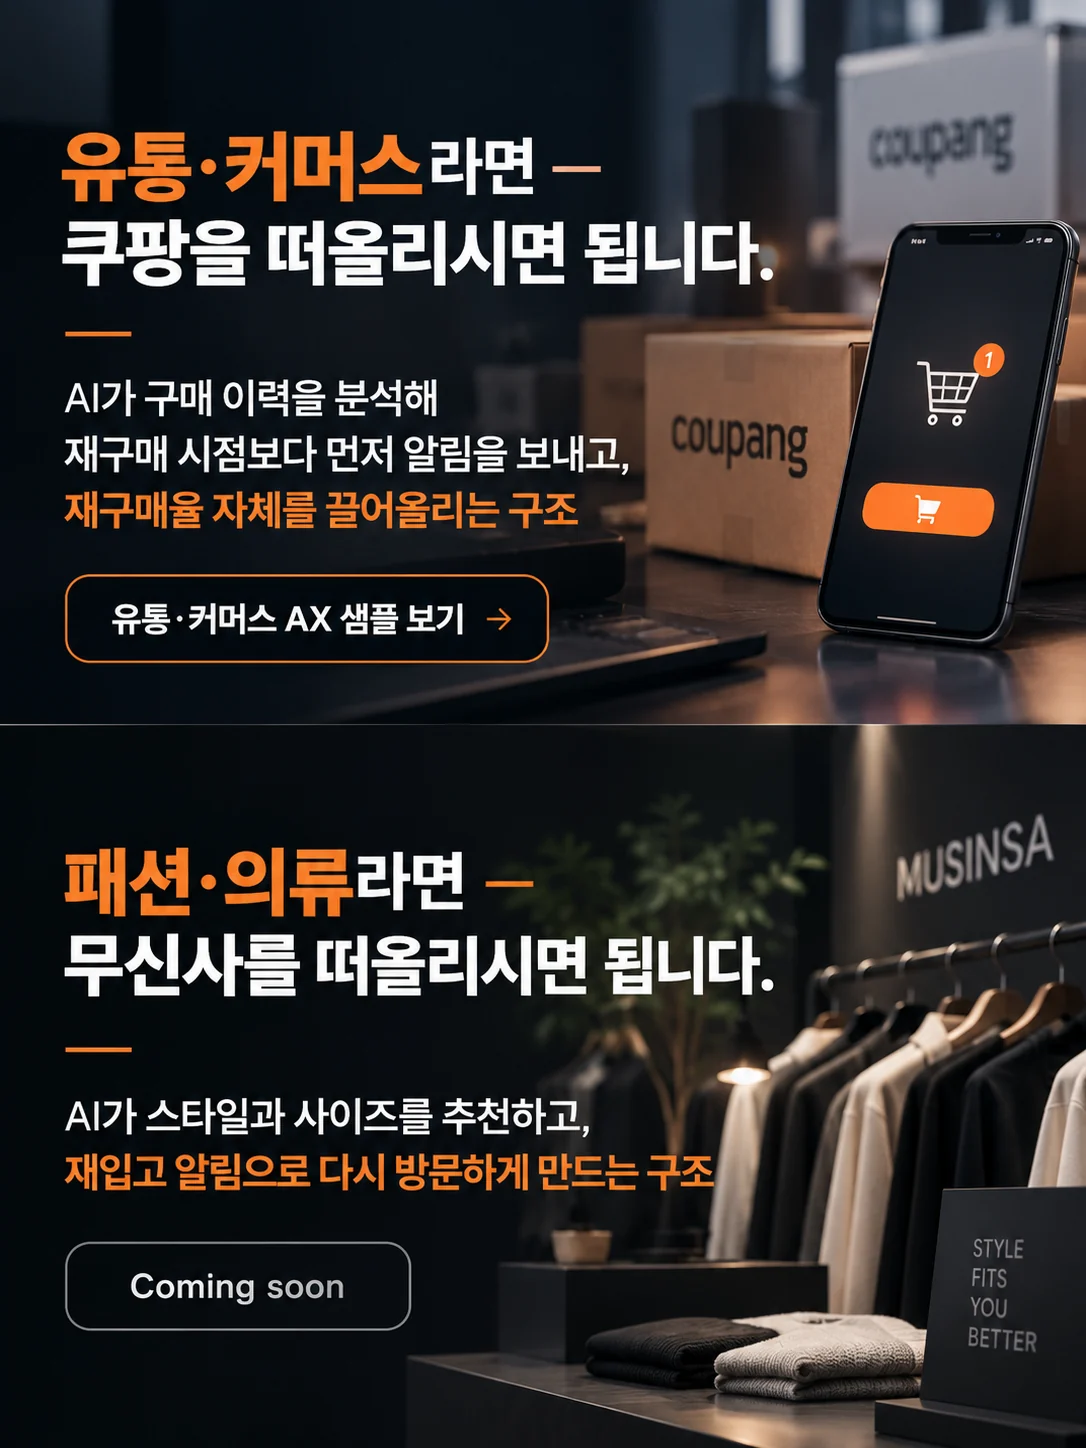
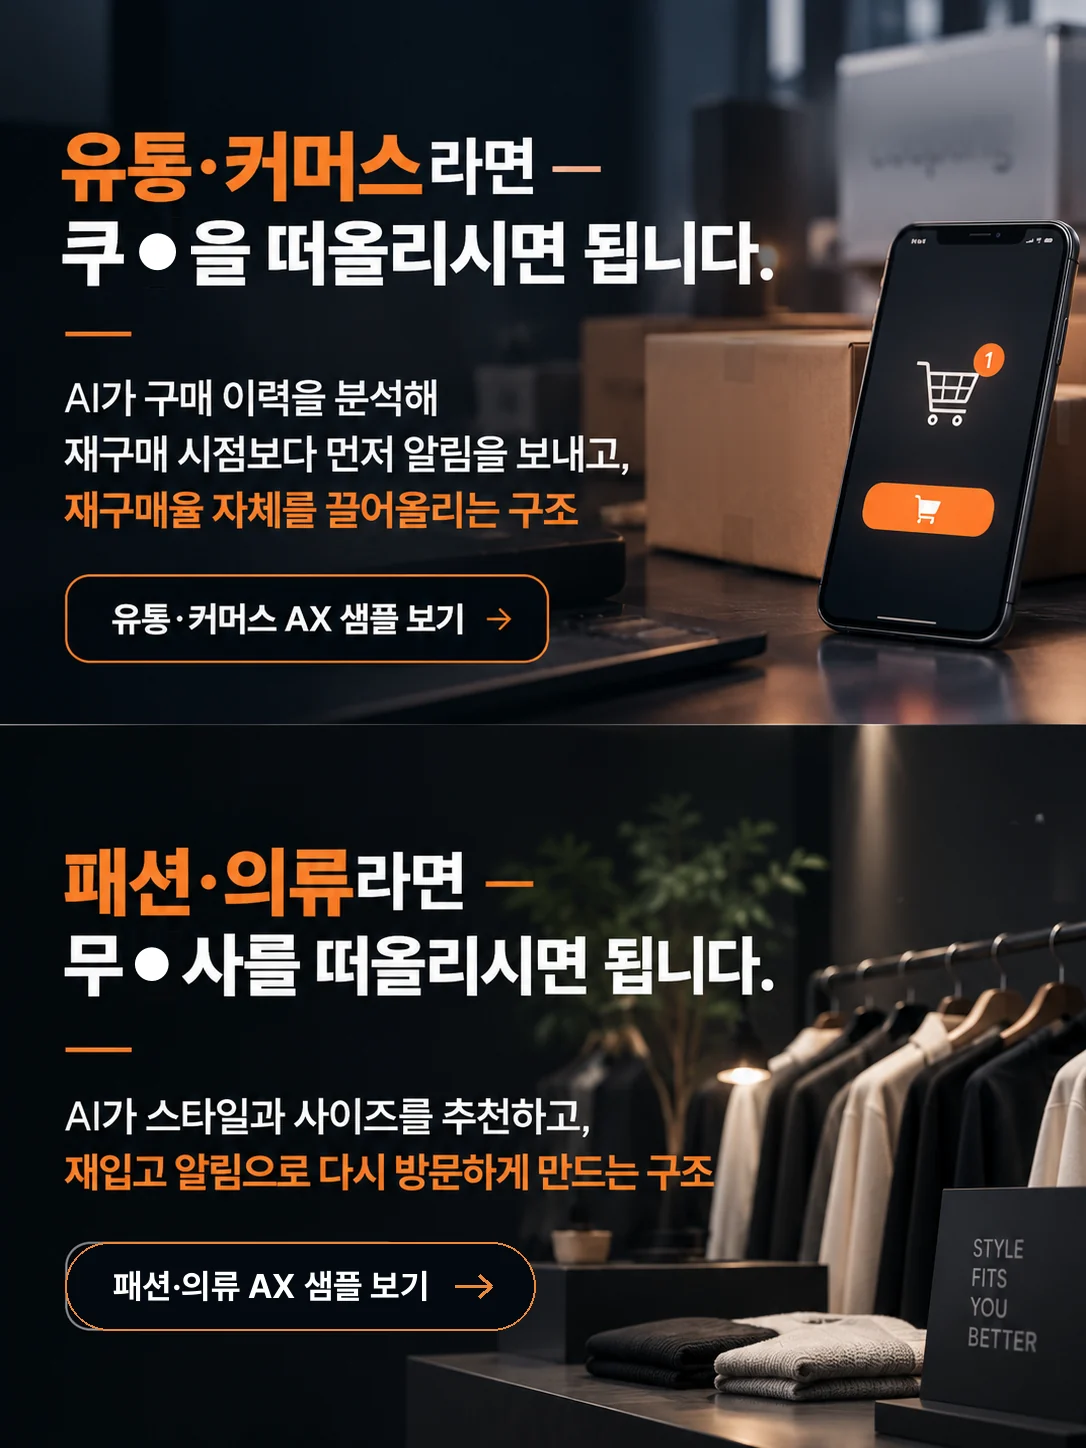
3.4 이미지 — 실제 브랜드 표기 정리 + 패션·의류 샘플 버튼 연결
- 본문의 브랜드명 한 글자를 ● 로 가림: '쿠팡' → '쿠●', '무신사' → '무●사'
  (사이트의 기업명 가림 표기와 같은 방식)
- 사진 속 상표 제거 — 택배상자 인쇄와 매장 간판은 배경색으로 지우고, 배경 로고는 아웃포커스 처리
  실제 기업과 제휴·협력 관계로 오해될 소지를 없애기 위함
- alt 텍스트에서도 브랜드명을 빼고 '대형 이커머스'로 서술 (검색엔진에 브랜드명이 남지 않게)
- [Coming soon] 자리에 위쪽 버튼과 같은 스타일의 '패션·의류 AX 샘플 보기' 버튼을 그리고 링크 연결
- 업종 샘플 링크 교체 · 추가
  · 유통·커머스 → NEXMART 종합유통 플랫폼 (sample22)
  · 패션·의류 → MORFIT 멀티브랜드 패션 플랫폼 (sample21)

Claude-Session: https://claude.ai/code/session_0127QvWRVvHFDHQbBmPVBCzc

diff --git a/src/data/axHomeStoryV3.ts b/src/data/axHomeStoryV3.ts
@@ -34,7 +34,7 @@ export const AX_STORY_V3_IMAGES: Record<string, AxStoryV3Image> = {
   '3-1': { alt: 'Section 03 사업계획서의 시대가 달라졌습니다 — 누구나 AI로 빠르게 만들 수 있어 사업계획서만으로는 차별화되기 어렵고, 차이는 문서 밖에서 생깁니다', bg: 'linear-gradient(180deg, #F1F4F5 0%, #F6F7F9 25%, #D0CAB2 50%, #CDBDB5 75%, #D2CECC 100%)', w: 1086, h: 1448 },
   '3-2': { alt: '실제로 작동하는 웹앱, 실제로 기능하는 MVP, 데이터가 쌓이는 초기 모델이 꼭 있어야 하며 업종마다 성장 스토리를 웹앱에 녹여내는 것이 중요 — 예를 들면 이런 것들입니다', bg: 'linear-gradient(180deg, #435B77 0%, #474F61 25%, #4D3F36 50%, #121823 75%, #131721 100%)', w: 1086, h: 1448 },
   '3-3': { alt: '음식점이라면 매장 데이터로 밀키트·케이터링·기업 복지몰·멤버십 혜택으로 넓히는 그림 / 화장품이라면 AI 피부 분석 맞춤 추천과 구독·리필·뷰티클래스로 접점을 넓히는 그림 (AX 샘플 보기 버튼)', bg: 'linear-gradient(180deg, #B1AD9C 0%, #DFC9B8 25%, #FAF7F3 50%, #FCFAF7 75%, #FBFAF6 100%)', w: 1086, h: 1448, hotspots: [{ x: 6.63, y: 40.33, w: 44.94, h: 6.63, sample: 'gounsot', label: '음식점 AX 샘플 보기 — 고운솥 식당 AX 화면 (새 창)' }, { x: 6.63, y: 88.12, w: 44.94, h: 6.77, sample: 'veloa', label: '화장품 AX 샘플 보기 — VELOA BEAUTY AX 화면 (새 창)' }] },
-  '3-4': { alt: '유통·커머스라면 쿠팡처럼 AI가 구매 이력을 분석해 재구매 시점보다 먼저 알림을 보내는 구조 (AX 샘플 보기) / 패션·의류라면 무신사처럼 스타일·사이즈 추천과 재입고 알림 (Coming soon)', bg: 'linear-gradient(180deg, #656C76 0%, #4B3328 25%, #413833 50%, #554E4B 75%, #020609 100%)', w: 1086, h: 1448, hotspots: [{ x: 5.99, y: 39.92, w: 44.2, h: 6.22, sample: 'materix', label: '유통·커머스 AX 샘플 보기 — MATERIX AX 화면 (새 창)' }] },
+  '3-4': { alt: '유통·커머스라면 대형 이커머스처럼 AI가 구매 이력을 분석해 재구매 시점보다 먼저 알림을 보내고 재구매율 자체를 끌어올리는 구조 (유통·커머스 AX 샘플 보기) / 패션·의류라면 AI가 스타일과 사이즈를 추천하고 재입고 알림으로 다시 방문하게 만드는 구조 (패션·의류 AX 샘플 보기)', bg: 'linear-gradient(180deg, #656C76 0%, #4B3328 25%, #413833 50%, #554E4B 75%, #020609 100%)', w: 1086, h: 1448, hotspots: [{ x: 5.99, y: 39.64, w: 44.48, h: 6.08, href: 'https://sample22-theta.vercel.app/ax', label: '유통·커머스 AX 샘플 보기 — NEXMART 종합유통 플랫폼 AX 화면 (새 창)' }, { x: 5.99, y: 85.77, w: 43.28, h: 6.08, href: 'https://sample21-eight.vercel.app/ax', label: '패션·의류 AX 샘플 보기 — MORFIT 멀티브랜드 패션 플랫폼 AX 화면 (새 창)' }] },
   '3-5': { alt: '학원이라면 AI가 학생 데이터를 분석해 학부모 리포트를 자동 발송하고 재등록 시점을 놓치지 않게 하는 구조 / 제조업이라면 거래처가 재고·납기를 직접 확인하는 B2B 포탈과 AI 재주문 알림 (AX 샘플 보기 버튼)', bg: 'linear-gradient(180deg, #E7E6E6 0%, #F6F6F9 25%, #CAB0A0 50%, #F8F9FB 75%, #FBFBFC 100%)', w: 1086, h: 1448, hotspots: [{ x: 6.45, y: 39.36, w: 39.13, h: 6.91, sample: 'edumaster', label: '학원 AX 샘플 보기 — 에듀마스터 AX 화면 (새 창)' }, { x: 6.45, y: 85.64, w: 38.67, h: 6.77, sample: 'seum', label: '제조업 AX 샘플 보기 — 세움정밀솔루션 AX 화면 (새 창)' }] },
   '3-6': { alt: '건설·인테리어라면 고객이 견적부터 시공 현황까지 직접 확인하고 준공 후 하자·A/S 요청까지 이어지는 포탈 구조 (AX 샘플 보기 버튼)', bg: 'linear-gradient(180deg, #35363F 0%, #B38867 25%, #8E7B71 50%, #57555D 75%, #261A14 100%)', w: 1086, h: 1448, hotspots: [{ x: 18.23, y: 84.53, w: 64.64, h: 8.43, sample: 'livarte', label: '건설·인테리어 AX 샘플 보기 — LIVARTÉ AX 화면 (새 창)' }] },
   '3-7': { alt: '설명만 하는 기업과 이미 움직이고 있는 기업은 심사자 눈에 다르게 보이며, AI까지 적용된 구조라면 인상이 완전히 달라집니다. 이런 변화를 만드는 방법을 요즘은 AX라고 부릅니다 — 그런데 AX가 정확히 뭘까요?', bg: 'linear-gradient(180deg, #EFF3F7 0%, #F5F7F9 25%, #C6C2AD 50%, #CEBEB6 75%, #A8A4AA 100%)', w: 1086, h: 1448 },
